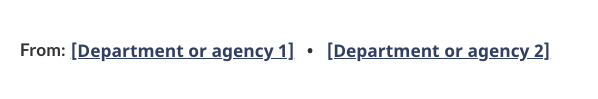
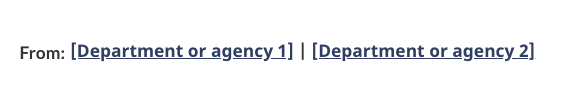
feat: update text

Changed region(s): [[0.0301, 0.4242, 0.9645, 0.6364]]

diff --git a/common-design-patterns/contributors.md b/common-design-patterns/contributors.md
@@ -50,7 +50,8 @@ title: Contributors
     <p>Use standard paragraph, heading and link <a href="https://design.canada.ca/styles/colours.html">colours</a>.</p>
     <p>The heading is an H2 styled at font-size: 87% (or 17px).</p>
     <p>The list items are bolded and sized at font-size: 87% (or 17px).</p>
-    <p>The links are to the right of the H2 and are coded in a horizontal list. The first item in the list is unstyled (no bullet).</p>
+    <p>The links are to the right of the H2 and are coded in a horizontal list in desktop with a vertical bar. The first item and last item in the list is unstyled (no vertical bar or bullet).</p>
+    <p>The list is presented as a stacked list of bullets in mobile.</p>
     <h3>Visual example</h3>
     <div class="pattern-demo mrgn-tp-md mrgn-bttm-md">
         <figure class="mrgn-tp-md mrgn-bttm-lg">
@@ -59,7 +60,7 @@ title: Contributors
             <details>
                 <summary>Image description: contributors</summary>
                 <p>
-                    The heading “From:” is aligned to the left. Two placeholder links appear in a list, aligned horizontally with the heading. The placeholder link text is [Department or agency 1]. This is followed by a bullet and then
+                    The heading “From:” is aligned to the left. Two placeholder links appear in a list, aligned horizontally with the heading. The placeholder link text is [Department or agency 1]. This is followed by a vertical bar and then
                     another placeholder link labeled [Department or agency 2]
                 </p>
             </details>
